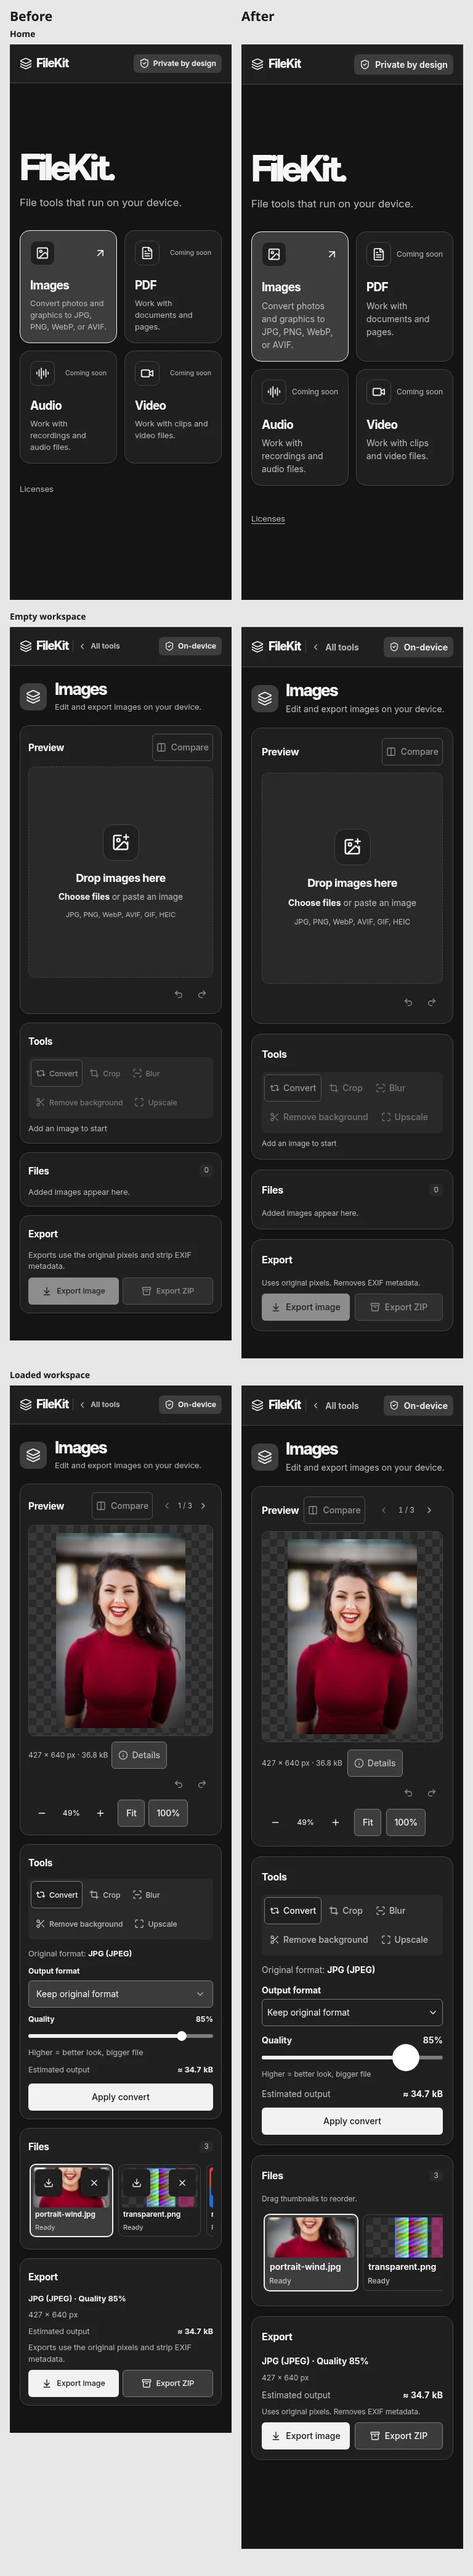
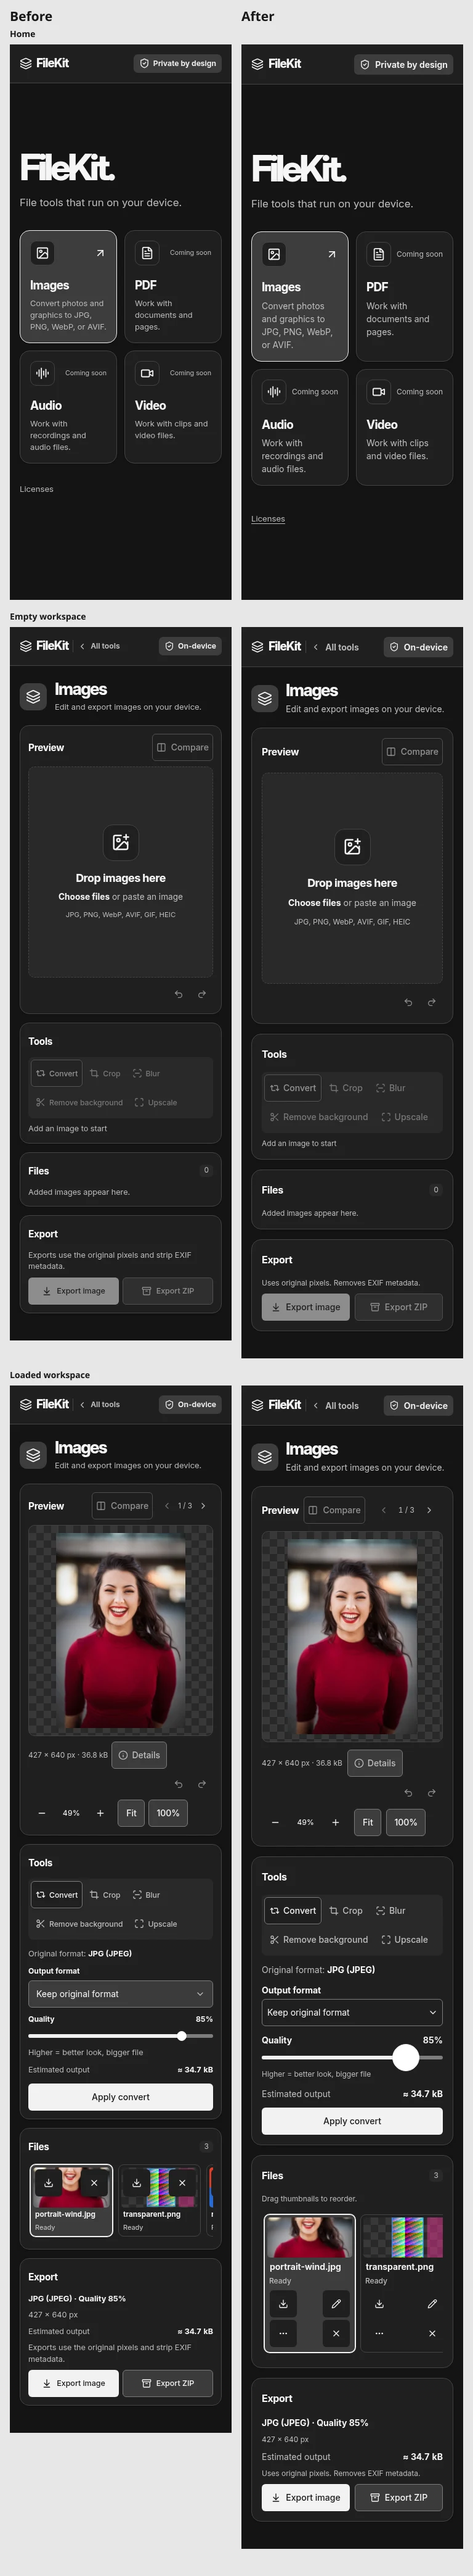
Keep file controls visible on mobile browsers

Changed region(s): [[0.5312, 0.8409, 0.9375, 0.9966]]

diff --git a/app/globals.css b/app/globals.css
@@ -235,7 +235,7 @@ button, a, label { touch-action: manipulation; }
   padding: var(--space-1) var(--space-1) var(--space-2);
   scrollbar-width: thin; overscroll-behavior-inline: contain;
 }
-.file-tile { flex: 0 0 152px; min-width: 0; }
+.file-tile { flex: 0 0 148px; min-width: 0; }
 .file-row {
   position: relative; border: 1px solid var(--line); border-radius: 9px;
   padding: var(--space-1); background: var(--surface);
@@ -257,14 +257,24 @@ button, a, label { touch-action: manipulation; }
 .select-file small { display: flex; align-items: center; gap: 4px; padding: 0 3px 2px; font-size: var(--text-helper); color: var(--muted); font-weight: 500; }
 .select-file small.file-error { color: var(--error); }
 .file-tile > .notice { margin-top: var(--space-1); }
-.file-actions { position: absolute; inset: 8px 8px auto; display: flex; justify-content: space-between; pointer-events: none; }
-.file-actions [data-slot="button"] {
-  background: var(--surface); color: var(--ink); box-shadow: 0 1px 6px rgb(0 0 0 / .17); pointer-events: auto;
+.file-actions {
+  display: grid; grid-template-columns: repeat(2, 44px); justify-content: space-between;
+  gap: var(--space-1); padding: var(--space-1);
 }
+.file-actions [data-slot="button"] { width: 44px; height: 44px; color: var(--ink); background: var(--surface); }
 .file-actions [data-slot="button"]:hover { background: var(--accent-soft); }
 @media (hover: hover) and (not (any-pointer: coarse)) {
-  .file-row:not(:hover):not(:focus-within):not([data-menu-open]) .file-actions { opacity: 0; }
-  .file-row:not(:hover):not(:focus-within):not([data-menu-open]) .file-actions [data-slot="button"] { pointer-events: none; }
+  .file-list:not([data-touch]) .file-tile { flex-basis: 152px; }
+  .file-list:not([data-touch]) .file-actions {
+    position: absolute; inset: 8px 8px auto; display: flex; padding: 0; pointer-events: none;
+  }
+  .file-list:not([data-touch]) .file-actions [data-slot="button"] {
+    width: 32px; height: 32px; box-shadow: 0 1px 6px rgb(0 0 0 / .17); pointer-events: auto;
+  }
+  .file-list:not([data-touch]) .file-row:not(:hover):not(:focus-within):not([data-menu-open]) .file-actions { opacity: 0; }
+  .file-list:not([data-touch]) .file-row:not(:hover):not(:focus-within):not([data-menu-open]) .file-actions [data-slot="button"] {
+    pointer-events: none;
+  }
 }
 .file-rename { display: grid; gap: var(--space-1); padding: var(--space-1); font-size: var(--text-helper); }
 .file-rename-input { display: flex; gap: var(--space-1); align-items: center; min-height: 36px; color: var(--muted); }
@@ -290,9 +300,12 @@ button, a, label { touch-action: manipulation; }
 .file-spinner { animation: spin 1s linear infinite; }
 .add-tile { flex: 0 0 60px; }
 .add-tile [data-slot="button"] {
-  width: 100%; height: 116px; border-style: dashed; background: var(--surface); color: var(--accent-text);
+  width: 100%; height: 208px; border-style: dashed; background: var(--surface); color: var(--accent-text);
 }
 .add-tile [data-slot="button"]:hover { background: var(--accent-soft); }
+@media (hover: hover) and (not (any-pointer: coarse)) {
+  .file-list:not([data-touch]) .add-tile [data-slot="button"] { height: 116px; }
+}
 
 .tool-bar[data-slot="tabs-list"] {
   display: flex; flex-wrap: wrap; width: 100%; height: auto; min-height: 40px; justify-content: flex-start; gap: 3px; padding: 4px;
@@ -382,7 +395,7 @@ button, a, label { touch-action: manipulation; }
 @media (width < 840px), (any-pointer: coarse) {
   .workspace [data-slot="button"]:not(.file-actions [data-slot="button"]),
   .workspace [data-slot="toggle"], .workspace [data-slot="tabs-trigger"], .workspace [data-slot="select-trigger"] { min-height: 44px; }
-  .workspace [data-slot="button"][data-size^="icon"] { min-width: 44px; }
+  .workspace [data-slot="button"][data-size^="icon"]:not(.file-actions [data-slot="button"]) { min-width: 44px; }
   .preview-panel .panel-heading { flex-wrap: wrap; }
   .preview-controls { margin-inline-start: auto; }
   .file-rename-input { min-height: 44px; }
@@ -396,13 +409,6 @@ button, a, label { touch-action: manipulation; }
   .preview-footer .history-buttons { flex: none; }
 }
 @media (hover: none), (any-pointer: coarse) {
-  .file-tile { flex-basis: 148px; }
-  .file-actions {
-    position: static; display: grid; grid-template-columns: repeat(2, 44px);
-    justify-content: space-between; gap: var(--space-1); padding: var(--space-1);
-  }
-  .file-actions [data-slot="button"] { width: 44px; height: 44px; box-shadow: none; }
-  .add-tile [data-slot="button"] { min-height: 208px; }
   .wordmark, .license-card a { display: inline-flex; align-items: center; min-height: 44px; }
 }
 @media (prefers-reduced-motion: reduce) {

diff --git a/components/workspace/image-workspace.tsx b/components/workspace/image-workspace.tsx
@@ -3,6 +3,7 @@
 import { useCallback, useEffect, useLayoutEffect, useMemo, useRef, useState } from 'react';
 import { Archive, ArrowDownToLine, Check, ChevronLeft, ChevronRight, Columns2, ImagePlus, Layers, Minus, Plus, Redo2, Undo2 } from 'lucide-react';
 import { processingMessage } from '../../lib/core/processing-error';
+import { isMobileDevice } from '../../lib/core/device';
 import { originalBaseName } from '../../lib/core/file-name';
 import type { EditCommand, ToolProgress } from '../../lib/core/contracts';
 import { activeCommands, createEditStack, recordEdit, redo, undo, type EditStack } from '../../lib/core/edit-stack';
@@ -593,7 +594,7 @@ export function ImageWorkspace() {
           {entries.length === 0 ? <p className="section-note">Added images appear here.</p> : (
             <>
             {entries.length > 1 && <p className="section-note">Drag thumbnails to reorder.</p>}
-            <ul ref={fileStrip} className="file-list" aria-label="Added files" tabIndex={jobsLocked ? 0 : undefined}>
+            <ul ref={fileStrip} className="file-list" aria-label="Added files" data-touch={isMobileDevice() || undefined} tabIndex={jobsLocked ? 0 : undefined}>
               {entries.map((entry, index) => {
                 const applying = toolBusy && entry.id === activeId;
                 const processing = applying || entry.id === exportProgress?.id || entry.id === work?.id;

diff --git a/test/e2e/workspace-ui.spec.ts b/test/e2e/workspace-ui.spec.ts
@@ -38,6 +38,9 @@ test('opens the picker from Preview and the add tile, and downloads a nonselecte
     await page.locator('h1').hover();
     await expect(firstTile.locator('.file-actions')).toHaveCSS('opacity', '0');
     await firstTile.hover();
+  } else {
+    await expect(firstTile.locator('.file-actions')).toHaveCSS('display', 'grid');
+    expect((await download.boundingBox())?.height).toBeGreaterThanOrEqual(44);
   }
   await expect(firstTile.locator('.file-actions')).toHaveCSS('opacity', '1');
   const [output] = await Promise.all([page.waitForEvent('download'), download.click()]);
